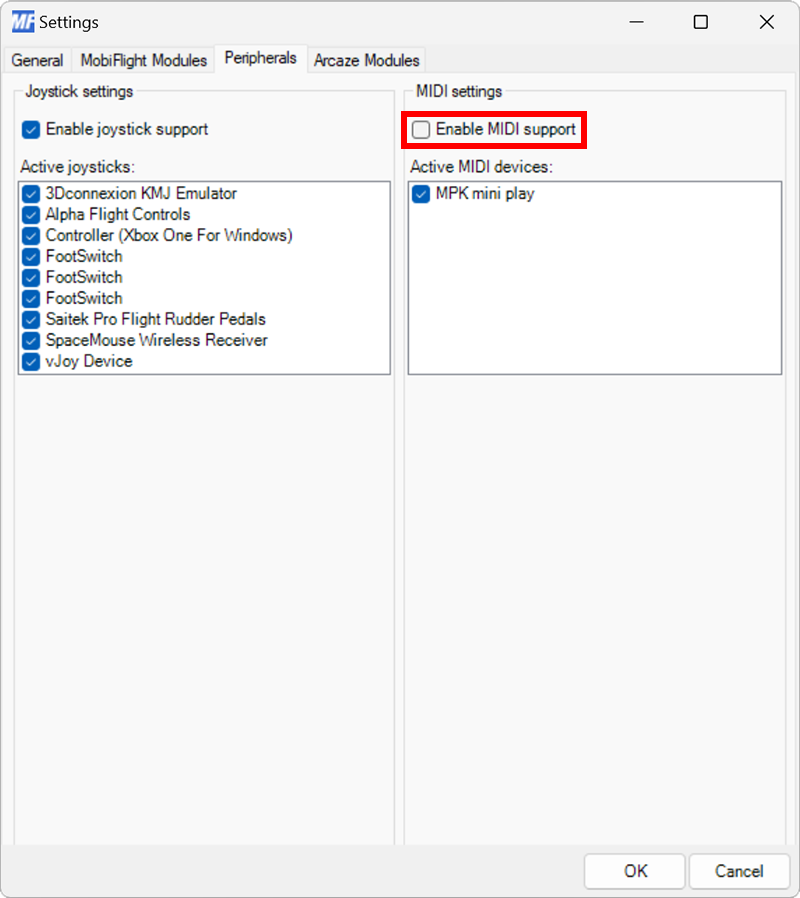
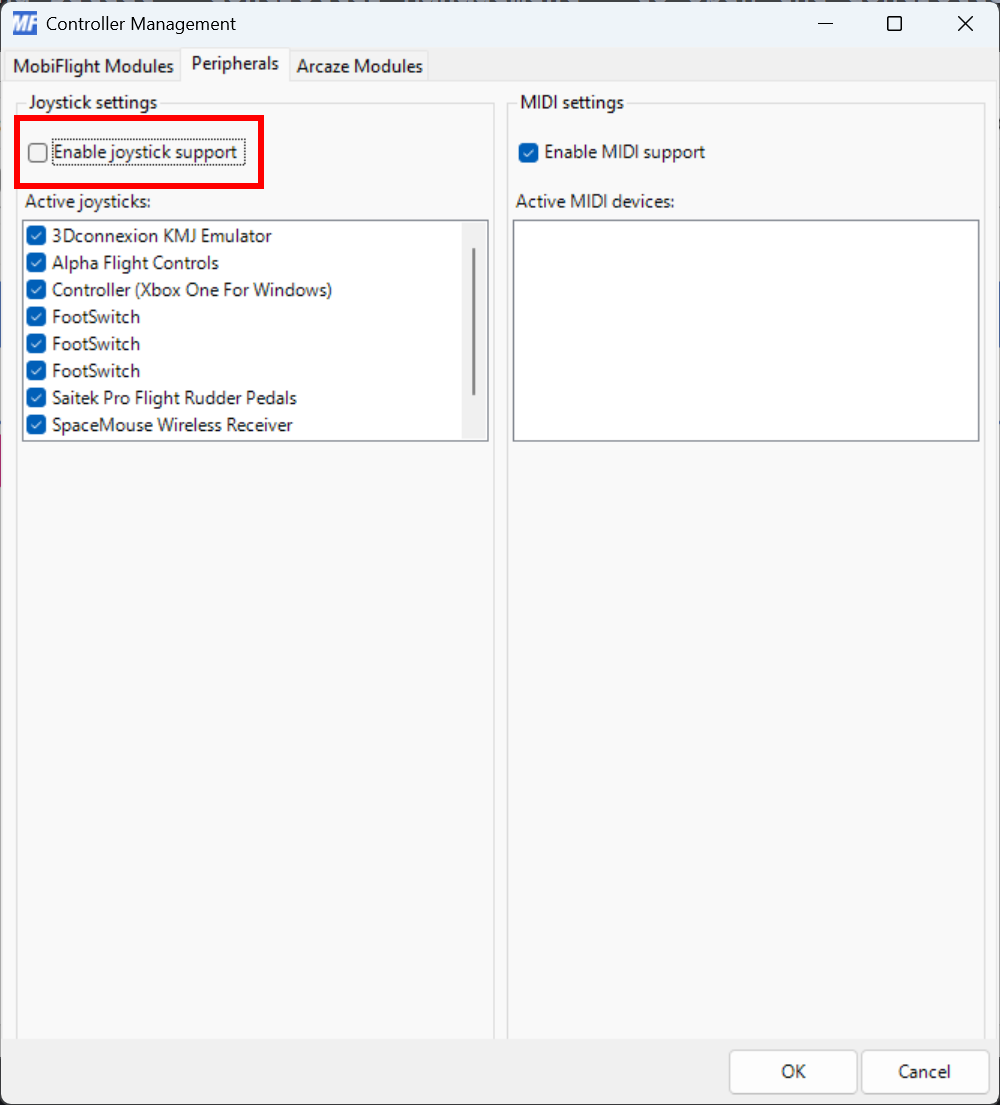
Midi

diff --git a/content/midi-devices/disabling/index.md b/content/midi-devices/disabling/index.md
@@ -15,11 +15,11 @@ You may want to disable MobiFlight's MIDI support in certain situations. This ca
 
 {{% steps %}}
 
-### Open the settings dialog
+### Open the Controller Management dialog
 
-Click on the **Extras** menu and select **Settings** to open the settings dialog.
+Click on the **Extras** menu and select **Controller Management** to open the Controller Management dialog.
 
-{{< screenshot image="/app/extras-settings-menu-item.png" title="Screenshot of the Extras menu with the Settings menu item selected." >}}
+{{< screenshot image="/app/extras-controller-management-menu-item.png" title="Screenshot of the Extras menu with the Controller Management menu item selected." >}}
 
 ### Disable MIDI device support
 
@@ -35,11 +35,11 @@ On the **Peripherals** tab, uncheck the **Enable MIDI support** checkbox.
 
 {{% steps %}}
 
-### Open the settings dialog
+### Open the Controller Management dialog
 
-Go to the **Extras** menu and select **Settings**.
+Click on the **Extras** menu and select **Controller Management** to open the Controller Management dialog.
 
-{{< screenshot image="extras-settings-menu-item.png" title="Screenshot of the Extras menu with the Settings menu item selected." >}}
+{{< screenshot image="/app/extras-controller-management-menu-item.png" title="Screenshot of the Extras menu with the Controller Management menu item selected." >}}
 
 ### Disable specific MIDI devices
 
